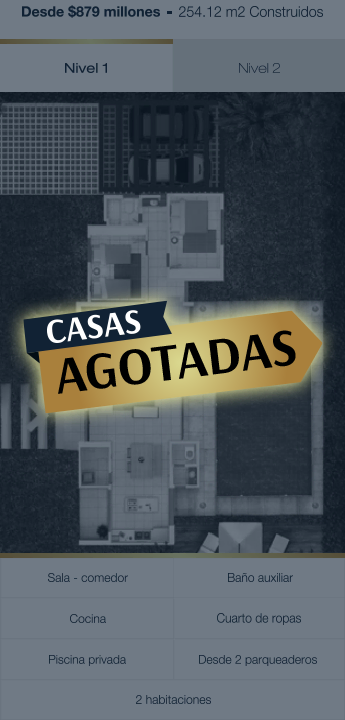
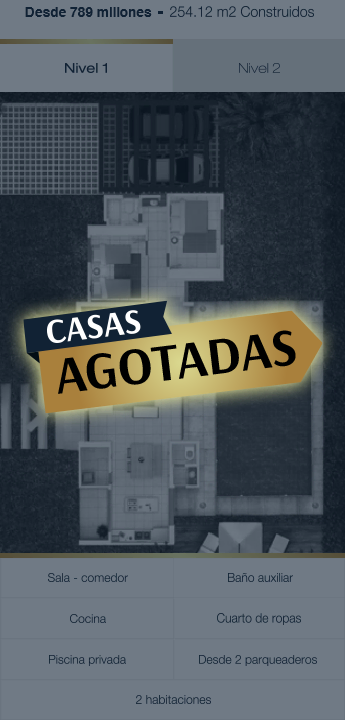
Actualización precios ADP 2021

Changed region(s): [[0.4928, 0.0, 0.9275, 0.0306], [0.058, 0.0, 0.4638, 0.0306]]

diff --git a/casas-campestres.html b/casas-campestres.html
@@ -191,7 +191,7 @@
           <div class="col-11 sin-padding">
             <!-- <h3 class="tx-section-xs-01-01">Su casa campestre en Melgar <span>totalmente amoblada</span> ¡por el mismo precio!</h3>-->
             <h1 class="tx-section-xs-01-01">Viva en la casa campestre de sus sueños, ubicada en la zona más exclusiva de Melgar</h1>
-            <p class="tx-section-web-01-02"><span></span>Desde 615 millones<span></span></p>
+            <p class="tx-section-web-01-02"><span></span>Desde 649 millones<span></span></p>
           </div>
 
         </div>
@@ -431,7 +431,7 @@
         
               <div id="casa-01-xs" class="tab-pane fade show active" role="tabpanel" aria-labelledby="tab">
                 
-                <p class="tx-section-xs-04-02">Desde $615 millones - <span>208 m² Construidos</span></p>
+                <p class="tx-section-xs-04-02">Desde $649 millones - <span>208 m² Construidos</span></p>
 
                 <ul class="nav nav-tabs" id="tabCasa01-xs" role="tablist">
         
@@ -498,7 +498,7 @@
         
               <div id="casa-02-xs" class="tab-pane fade" role="tabpanel" aria-labelledby="tab">
 
-                <p class="tx-section-xs-04-02">Desde $684 millones - <span>220 m² Construidos</span></p>
+                <p class="tx-section-xs-04-02">Desde $728 millones - <span>220 m² Construidos</span></p>
 
                 <ul class="nav nav-tabs" id="tabCasa02-xs" role="tablist">
         
@@ -834,7 +834,7 @@
           <div class="col-10 col-sm-11 col-md-11 col-lg-11 col-xl-10 sin-padding">
             <!--<h1 class="tx-section-web-01-01">Su casa campestre en Melgar <span>totalmente amoblada</span> ¡por el mismo precio!</h1>-->
             <h1 class="tx-section-web-01-01">Viva en la casa campestre de sus sueños, ubicada en la zona más exclusiva de Melgar</h1>
-            <h3 class="tx-section-web-01-02"><span></span>Desde 615 millones<span></span></h3>
+            <h3 class="tx-section-web-01-02"><span></span>Desde 649 millones<span></span></h3>
           </div>
 
         </div>
@@ -1053,7 +1053,7 @@
                         <td>4</td> 
                         <td>4</td> 
                         <td>28 m2</td> 
-                        <td class="tx-table-bold">615<br>Millones</td> 
+                        <td class="tx-table-bold">649<br>Millones</td> 
                         <td class="btn-tabla-adp-web"><a data-toggle="modal" data-target="#modalCasa01Web">VER PLANOS</a></td> 
                     </tr> 
                     <tr> 
@@ -1062,7 +1062,7 @@
                         <td>5</td> 
                         <td>4</td> 
                         <td>28 m2</td> 
-                        <td class="tx-table-bold">684<br>Millones</td> 
+                        <td class="tx-table-bold">728<br>Millones</td> 
                         <td class="btn-tabla-adp-web"><a data-toggle="modal" data-target="#modalCasa02Web">VER PLANOS</a></td> 
                     </tr> 
                     <tr> 
@@ -1115,7 +1115,7 @@
                     <div class="row">
                       <div class="col-5 sin-padding-right">
                         
-                        <p class="tx-section-05-tab-01-01"><span class="casas-campestres"><i class="icon-signo-pesos"></i></span>Desde 615 Millones</p>
+                        <p class="tx-section-05-tab-01-01"><span class="casas-campestres"><i class="icon-signo-pesos"></i></span>Desde 649 Millones</p>
 
                         <div class="content-home-description">
                           <p class="tx-section-web-02-05 first"><span class="casas-campestres"><i class="icon-vieta"></i></span> 208 m² construidos</p>
@@ -1181,7 +1181,7 @@
                     <div id="casa-02-web" class="tab-pane fade" role="tabpanel" aria-labelledby="tab">
                       <div class="row">
                         <div class="col-5 sin-padding-right">
-                          <p class="tx-section-05-tab-01-01"><span class="casas-campestres"><i class="icon-signo-pesos"></i></span>Desde 684 Millones</p>
+                          <p class="tx-section-05-tab-01-01"><span class="casas-campestres"><i class="icon-signo-pesos"></i></span>Desde 728 Millones</p>
 
                           <div class="content-home-description">
 
